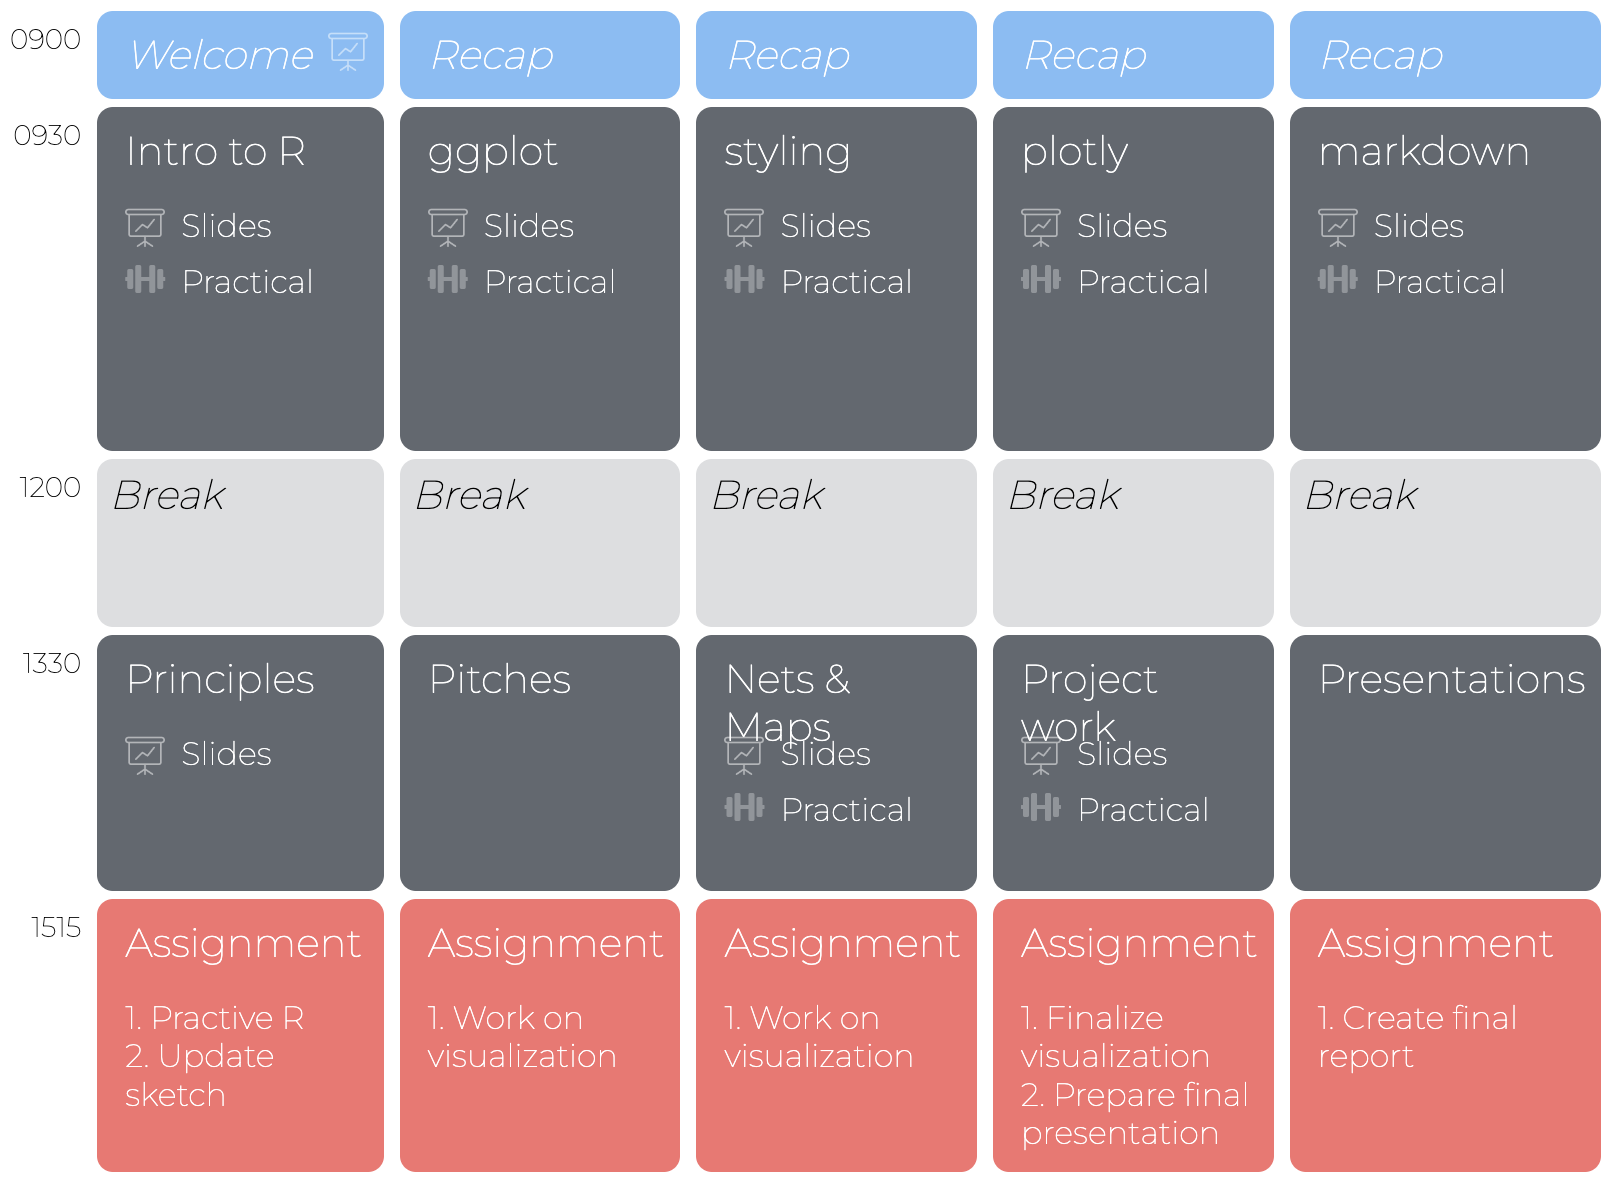
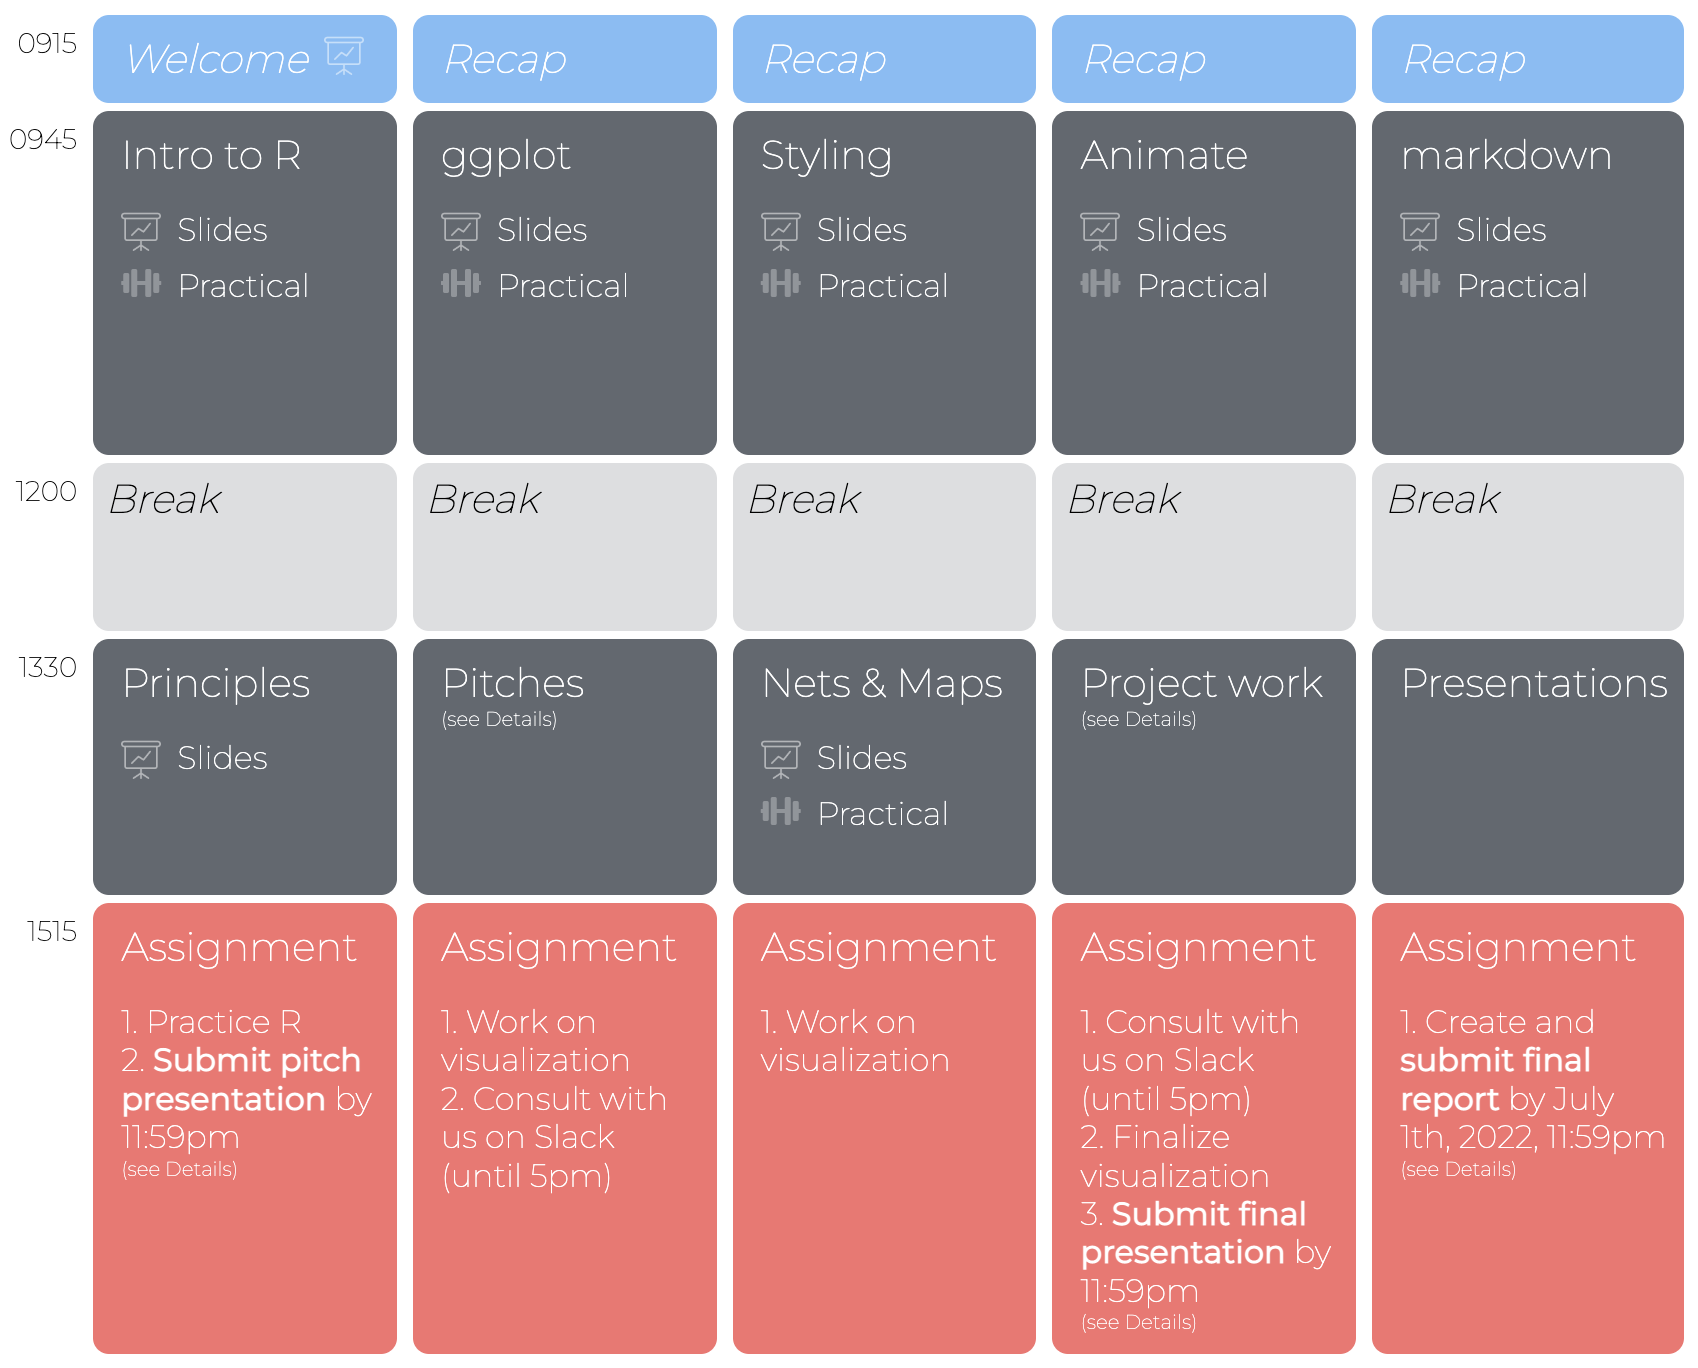
..

diff --git a/_sessions/Intro2R/intro2R.html b/_sessions/Intro2R/intro2R.html
@@ -12,15 +12,19 @@
     <textarea id="source">
 class: center, middle, inverse, title-slide
 
-.title[
 # Intro 2 R
-]
-.author[
-### Visualizing and communicating data with R<br> <a href='https://therbootcamp.github.io'> <font style='font-size:1.4em'>The R Bootcamp @ GSERM</font> </a> <br> <a href='https://therbootcamp.github.io/DataViz_2022GSERM/'> <i class='fas fa-clock' style='font-size:1.4em;'></i> </a>  <a href='https://therbootcamp.github.io'> <i class='fas fa-home' style='font-size:1.4em;' ></i> </a>  <a href='therbootcamp@gmail.com'> <i class='fas fa-envelope' style='font-size: 1.4em;'></i> </a>  <a href='https://www.linkedin.com/company/27090302'> <i class='fab fa-linkedin' style='font-size: 1.4em;'></i> </a>
-]
-.date[
+### Visualizing and communicating data with R<br>
+<a href='https://therbootcamp.github.io'>
+<font style='font-size:1.4em'>The R Bootcamp @ GSERM</font> </a> <br>
+<a href='https://therbootcamp.github.io/DataViz_2022GSERM/'>
+<i class='fas fa-clock' style='font-size:1.4em;'></i> </a> 
+<a href='https://therbootcamp.github.io'>
+<i class='fas fa-home' style='font-size:1.4em;' ></i> </a> 
+<a href='therbootcamp@gmail.com'>
+<i class='fas fa-envelope' style='font-size: 1.4em;'></i> </a> 
+<a href='https://www.linkedin.com/company/27090302'>
+<i class='fab fa-linkedin' style='font-size: 1.4em;'></i> </a>
 ### June 2022
-]
 
 ---
 
@@ -1390,16 +1394,16 @@ basel %&gt;%
 
 ```
 ## # A tibble: 714 × 4
-##    year quarter        name   value
-##   &lt;dbl&gt; &lt;chr&gt;          &lt;chr&gt;  &lt;dbl&gt;
-## 1  2001 Altstadt Gros… inco… 8.78e4
-## 2  2001 Altstadt Gros… weal… 1.01e6
-## 3  2001 Vorstädte      inco… 8.41e4
-## 4  2001 Vorstädte      weal… 1.12e6
-## 5  2001 Am Ring        inco… 6.26e4
-## 6  2001 Am Ring        weal… 3.01e5
-## 7  2001 Breite         inco… 5.20e4
-## 8  2001 Breite         weal… 1.05e5
+##    year quarter      name     value
+##   &lt;dbl&gt; &lt;chr&gt;        &lt;chr&gt;    &lt;dbl&gt;
+## 1  2001 Altstadt Gr… income… 8.78e4
+## 2  2001 Altstadt Gr… wealth… 1.01e6
+## 3  2001 Vorstädte    income… 8.41e4
+## 4  2001 Vorstädte    wealth… 1.12e6
+## 5  2001 Am Ring      income… 6.26e4
+## 6  2001 Am Ring      wealth… 3.01e5
+## 7  2001 Breite       income… 5.20e4
+## 8  2001 Breite       wealth… 1.05e5
 ## # … with 706 more rows
 ```
 ]
@@ -1459,8 +1463,8 @@ basel %&gt;%
 &lt;p align = "left"&gt;
   &lt;img src="image/editor_edit.png"&gt;
 &lt;br&gt;&lt;br&gt;&lt;br&gt;
-Shortcut für &lt;high&gt;schicke Code zur Console&lt;/high&gt;:&lt;br&gt;&lt;br2&gt;&lt;font size = 6&gt;&amp;#8984;/ctrl + &amp;#9166;&lt;/font&gt;&lt;br&gt;&lt;br2&gt;&lt;br2&gt;
-Shortcut für &lt;high&gt;führe Chunk wiederholt aus&lt;/high&gt;:&lt;br&gt;&lt;br2&gt;&lt;font size = 6&gt;  &amp;#8984;/ctrl + &amp;#8997; + p&lt;/font&gt;
+Shortcut for &lt;high&gt;send Code to Console&lt;/high&gt;:&lt;br&gt;&lt;br2&gt;&lt;font size = 6&gt;&amp;#8984;/ctrl + &amp;#9166;&lt;/font&gt;&lt;br&gt;&lt;br2&gt;&lt;br2&gt;
+Shortcut for &lt;high&gt;run Chunk again&lt;/high&gt;:&lt;br&gt;&lt;br2&gt;&lt;font size = 6&gt;  &amp;#8984;/ctrl + &amp;#8997; + p&lt;/font&gt;
 &lt;/p&gt;
 
 ]
@@ -1570,19 +1574,6 @@ if (window.HTMLWidgets) slideshow.on('afterShowSlide', function (slide) {
     deleted = true;
   });
 })();
-// add `data-at-shortcutkeys` attribute to <body> to resolve conflicts with JAWS
-// screen reader (see PR #262)
-(function(d) {
-  let res = {};
-  d.querySelectorAll('.remark-help-content table tr').forEach(tr => {
-    const t = tr.querySelector('td:nth-child(2)').innerText;
-    tr.querySelectorAll('td:first-child .key').forEach(key => {
-      const k = key.innerText;
-      if (/^[a-z]$/.test(k)) res[k] = t;  // must be a single letter (key)
-    });
-  });
-  d.body.setAttribute('data-at-shortcutkeys', JSON.stringify(res));
-})(document);
 (function() {
   "use strict"
   // Replace <script> tags in slides area to make them executable

diff --git a/_sessions/principles/principles.html b/_sessions/principles/principles.html
@@ -4,7 +4,7 @@
     <title>Principles</title>
     <meta charset="utf-8" />
     <meta name="author" content="Visualizing and communicating data with R   The R Bootcamp @ GSERM                  " />
-    <script src="libs/header-attrs-2.14/header-attrs.js"></script>
+    <script src="libs/header-attrs-2.13/header-attrs.js"></script>
     <link href="libs/remark-css-0.0.1/default.css" rel="stylesheet" />
     <link rel="stylesheet" href="baselrbootcamp.css" type="text/css" />
   </head>
@@ -12,15 +12,19 @@
     <textarea id="source">
 class: center, middle, inverse, title-slide
 
-.title[
 # Principles
-]
-.author[
-### Visualizing and communicating data with R<br> <a href='https://therbootcamp.github.io'> <font style='font-size:1.4em'>The R Bootcamp @ GSERM</font> </a> <br> <a href='https://therbootcamp.github.io/DataViz_2022GSERM/'> <i class='fas fa-clock' style='font-size:1.4em;'></i> </a>  <a href='https://therbootcamp.github.io'> <i class='fas fa-home' style='font-size:1.4em;' ></i> </a>  <a href='therbootcamp@gmail.com'> <i class='fas fa-envelope' style='font-size: 1.4em;'></i> </a>  <a href='https://www.linkedin.com/company/27090302'> <i class='fab fa-linkedin' style='font-size: 1.4em;'></i> </a>
-]
-.date[
+### Visualizing and communicating data with R<br>
+<a href='https://therbootcamp.github.io'>
+<font style='font-size:1.4em'>The R Bootcamp @ GSERM</font> </a> <br>
+<a href='https://therbootcamp.github.io/DataViz_2022GSERM/'>
+<i class='fas fa-clock' style='font-size:1.4em;'></i> </a> 
+<a href='https://therbootcamp.github.io'>
+<i class='fas fa-home' style='font-size:1.4em;' ></i> </a> 
+<a href='therbootcamp@gmail.com'>
+<i class='fas fa-envelope' style='font-size: 1.4em;'></i> </a> 
+<a href='https://www.linkedin.com/company/27090302'>
+<i class='fab fa-linkedin' style='font-size: 1.4em;'></i> </a>
 ### June 2022
-]
 
 ---
 
@@ -643,19 +647,6 @@ if (window.HTMLWidgets) slideshow.on('afterShowSlide', function (slide) {
     deleted = true;
   });
 })();
-// add `data-at-shortcutkeys` attribute to <body> to resolve conflicts with JAWS
-// screen reader (see PR #262)
-(function(d) {
-  let res = {};
-  d.querySelectorAll('.remark-help-content table tr').forEach(tr => {
-    const t = tr.querySelector('td:nth-child(2)').innerText;
-    tr.querySelectorAll('td:first-child .key').forEach(key => {
-      const k = key.innerText;
-      if (/^[a-z]$/.test(k)) res[k] = t;  // must be a single letter (key)
-    });
-  });
-  d.body.setAttribute('data-at-shortcutkeys', JSON.stringify(res));
-})(document);
 (function() {
   "use strict"
   // Replace <script> tags in slides area to make them executable

diff --git a/index.html b/index.html
@@ -391,7 +391,7 @@
             Final report
           </td>
           <td align=justify style="vertical-align:top">
-            (i) The final assignment of this course is to compile and submit a one-to-two-page report. The report should include a (i) catchy title and abstract (max 50 words), (ii) text presenting the research question, the methodology and data, the results, and conclusions, and, of course, (iii) the final data visualization. The report should be created using R markdown and submitted until Friday, July 1th, 11:59pm as a self-contained html file via this <a href="https://forms.gle/jX4rxxaSDuggJynA8"><b>Google form</b></a>.
+            (i) The final assignment of this course is to compile and submit a one-to-two-page report. The report should include a (i) catchy title and abstract (max 50 words), (ii) text presenting the research question, the methodology and data, the results, and conclusions, and, of course, (iii) the final data visualization. The report should be created using R markdown and submitted until Friday, July 15th, 11:59pm as a self-contained html file via this <a href="https://forms.gle/jX4rxxaSDuggJynA8"><b>Google form</b></a>.
           </ol>
           </td>
         </tr>

diff --git a/_sessions/welcome/Welcome.html b/_sessions/welcome/Welcome.html
@@ -306,7 +306,7 @@ Klicke auf &lt;high&gt;"....running..."&lt;/high&gt; auf unserer Website!
 
 class: middle, center
 
-&lt;h1&gt;&lt;a href=""&gt;Download&lt;br&gt;project&lt;/a&gt;&lt;/h1&gt;
+&lt;h1&gt;&lt;a href="https://www.dropbox.com/s/ryhc0tkqbsx4v9w/TheRBootcamp.zip?dl=1"&gt;Download&lt;br&gt;project&lt;/a&gt;&lt;/h1&gt;
 
 
 ---
